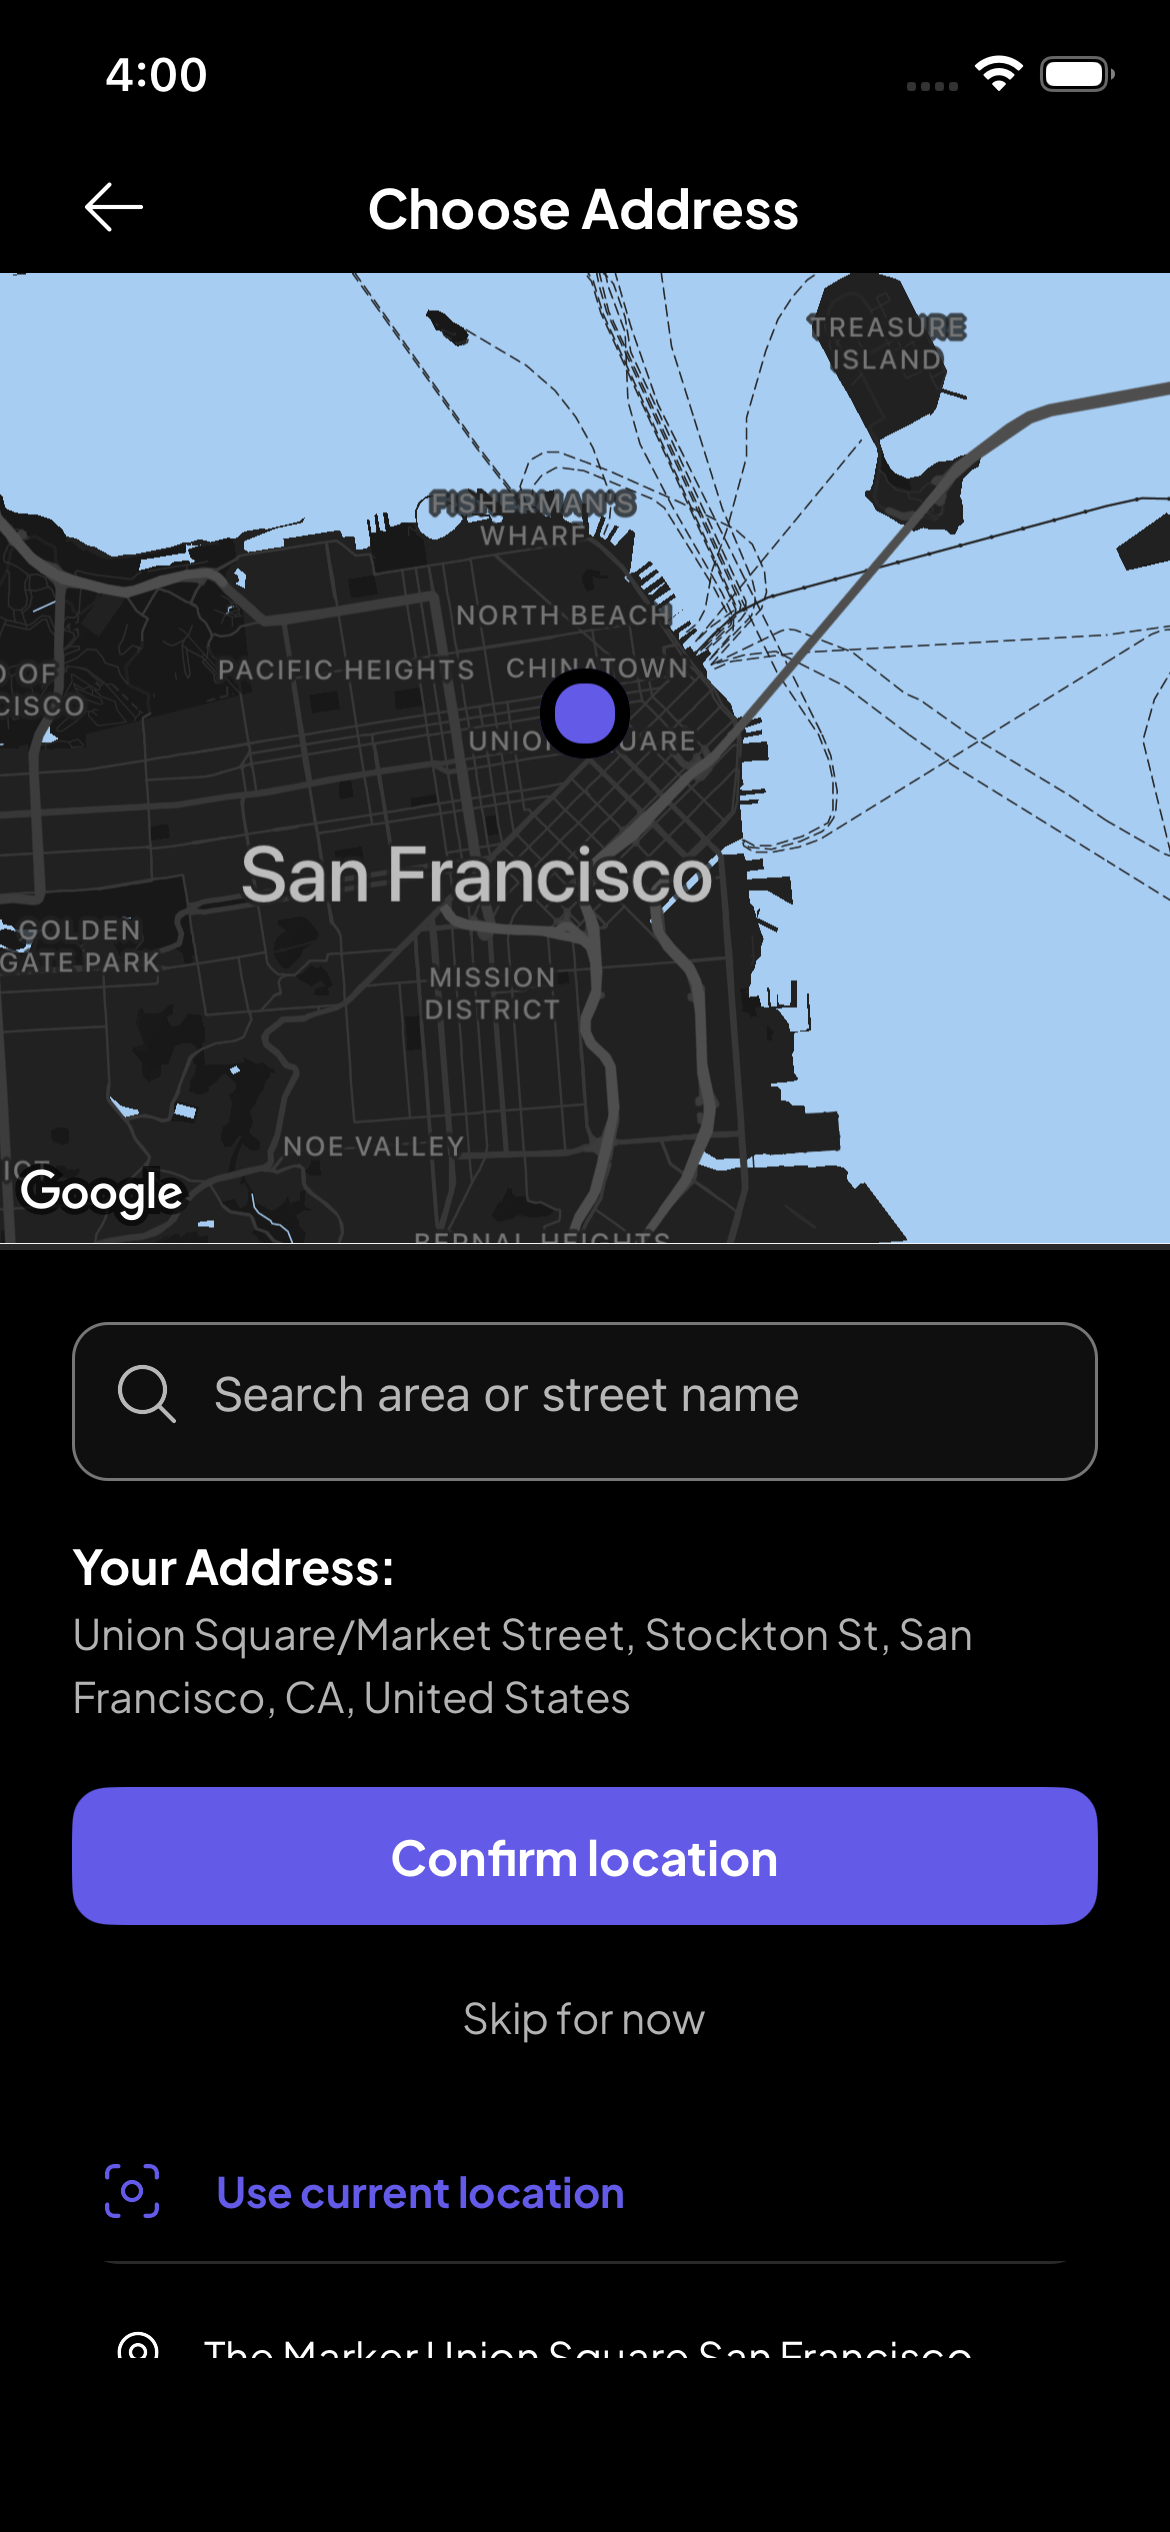
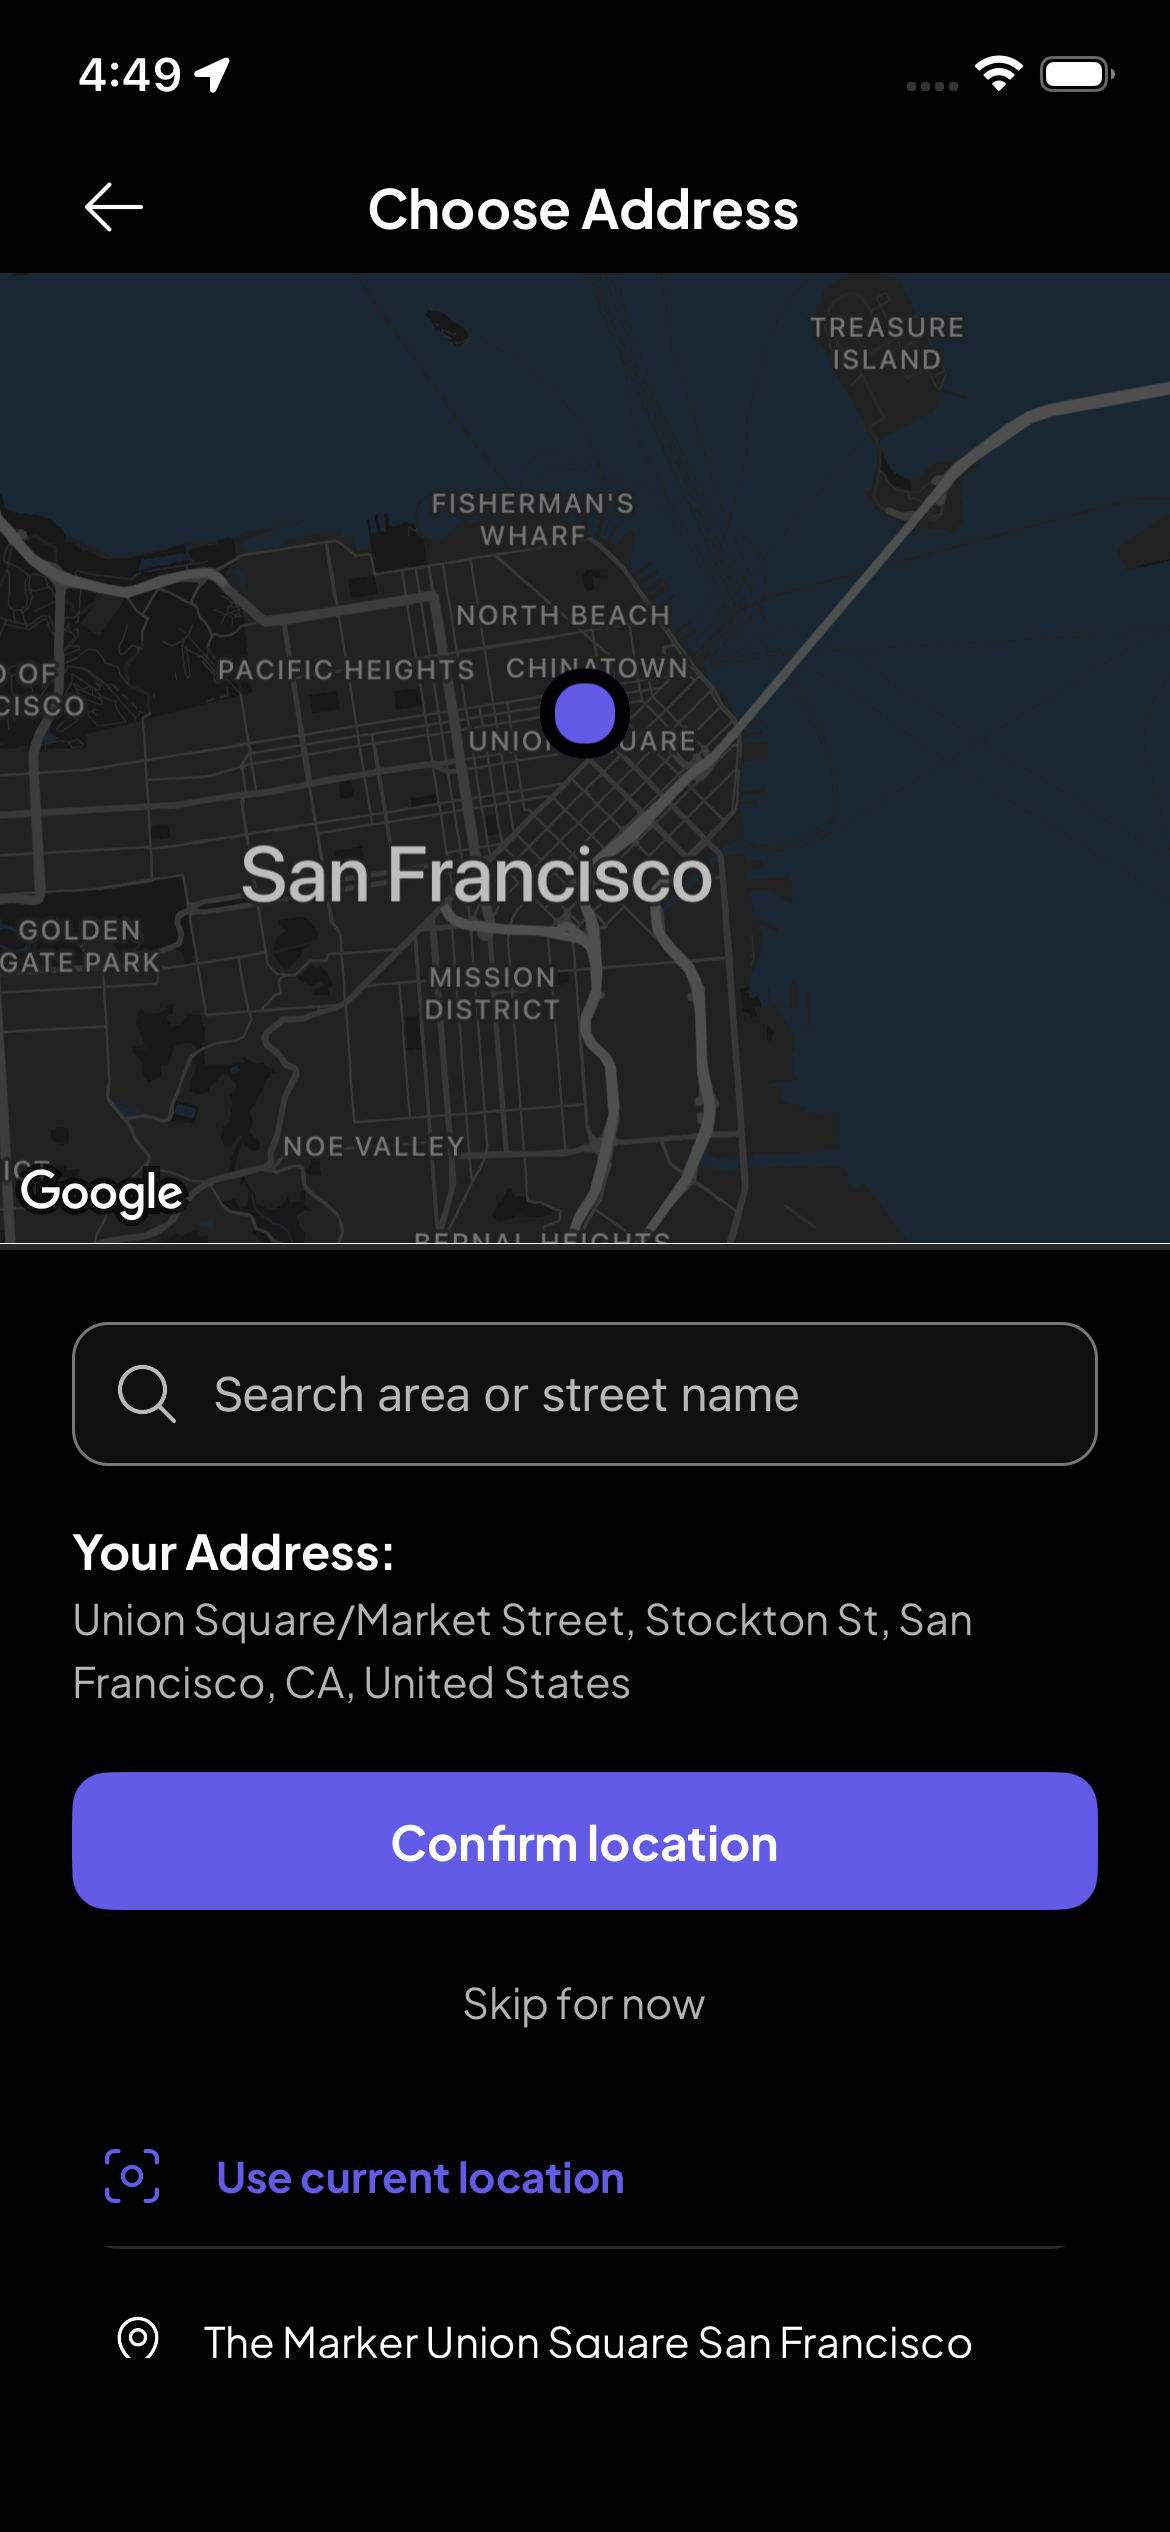
fix(ui): match Block & Report sheet to Figma and darken the map water

diff --git a/src/screens/chat/chat-details.tsx b/src/screens/chat/chat-details.tsx
@@ -79,6 +79,8 @@ const documentExists = (
 // Measured off the Figma Check Availability and Make Offer sheets: a 44pt title
 // row, a 72pt product thumbnail, 48pt fields at the button radius on the hairline.
 const OFFER_FIELD_HEIGHT = 48;
+/** The Block & Report frame's reason box. */
+const BLOCK_REASON_HEIGHT = 200;
 const OFFER_THUMB = 72;
 
 function SheetTitle({ title }: { title: string }) {
@@ -268,6 +270,7 @@ export default function ChatDetailsScreen() {
   const [headerLoading, setHeaderLoading] = useState(true);
   const scrollViewRef = useRef<ScrollView>(null);
   const [blockReason, setBlockReason] = useState("");
+  const [blocking, setBlocking] = useState(false);
   const [blockedBy, setBlockedBy] = useState("");
   const blockAndReportInFlight = useRef(false);
 
@@ -518,6 +521,7 @@ export default function ChatDetailsScreen() {
     if (blockAndReportInFlight.current) return;
 
     blockAndReportInFlight.current = true;
+    setBlocking(true);
     try {
       await reportUser(participantDetails.userId, reason);
       await blockUser(participantDetails.userId, reason, conversationId);
@@ -529,6 +533,7 @@ export default function ChatDetailsScreen() {
       toast.error("Couldn’t block and report this user");
     } finally {
       blockAndReportInFlight.current = false;
+      setBlocking(false);
     }
   };
 
@@ -715,63 +720,67 @@ export default function ChatDetailsScreen() {
 
       <CustomBottomSheetModal
         ref={bottomSheetRef}
-        // snapPoints={["60%"]}
+        snapPoints={["52%"]}
+        frame
         isDark={isDark}
+        onDismiss={() => setBlockReason("")}
       >
-        <View className="w-[95%] mx-auto">
-          <View className="flex items-center mb-4">
-            <Text
-              fontSize="text-xl"
-              fontWeight="font-bold"
+        <SheetTitle title="Block & Report" />
+
+        {/* The frame's 200pt box: radius 16, hairline, 16 padding, placeholder
+            "Share your thoughts...". The value is controlled now (it was not, so
+            the reason typed before a Cancel came back on the next open). */}
+        <TextInput
+          value={blockReason}
+          onChangeText={setBlockReason}
+          placeholder="Share your thoughts..."
+          placeholderTextColor={color.placeholder}
+          multiline
+          accessibilityLabel="Reason for blocking and reporting"
+          style={{
+            height: BLOCK_REASON_HEIGHT,
+            marginTop: 16,
+            marginHorizontal: SCREEN_GUTTER,
+            padding: 16,
+            textAlignVertical: "top",
+            borderWidth: 1,
+            borderColor: color.line,
+            borderRadius: radius.card,
+            color: color.text,
+            fontFamily: fontFamily.regular,
+            fontSize: fontSize.md,
+          }}
+        />
+
+        <View
+          style={{
+            flexDirection: "row",
+            gap: 8,
+            marginTop: 32,
+            marginBottom: 16,
+            paddingHorizontal: SCREEN_GUTTER,
+          }}
+        >
+          <View style={{ flex: 1 }}>
+            <Button
+              variant="outline"
+              onPress={() => {
+                setBlockReason("");
+                bottomSheetRef.current?.close();
+              }}
+            >
+              Cancel
+            </Button>
+          </View>
+          <View style={{ flex: 1 }}>
+            <Button
+              variant="warning"
+              onPress={handleBlockPress}
+              disabled={!blockReason.trim()}
+              loading={blocking}
             >
               Block & Report
-            </Text>
-          </View>
-
-          <TextInput
-            placeholder="Share your thoughts..."
-            multiline
-            // value={blockReason}
-            onChangeText={(text) => setBlockReason(text)}
-            style={{
-              textAlignVertical: "top",
-            }}
-            className={`h-52 w-full mt-4 border ${
-              isDark
-                ? "border-line-dark text-white"
-                : "border-line-light text-black"
-            } rounded-card p-3 text-base`}
-            placeholderTextColor={ink.dim(isDark)}
-          />
-
-          <View className="flex-row justify-between mt-6 mb-0">
-            <TouchableOpacity
-              onPress={() => bottomSheetRef.current?.close()}
-              className={`bg-surface-light border ${
-                isDark
-                  ? "border-line-dark text-white"
-                  : "border-line-light text-black"
-              } p-3 rounded-input flex-1 mr-2`}
-            >
-              <Text
-                className="text-center text-black"
-                fontWeight="font-bold"
-              >
-                Cancel
-              </Text>
-            </TouchableOpacity>
-
-            <TouchableOpacity
-              className="bg-danger-light p-3 rounded-input flex-1 ml-2"
-              onPress={handleBlockPress}
-            >
-              <Text
-                fontWeight="font-bold"
-                className="text-center text-white"
-              >
-                Block & Report
-              </Text>
-            </TouchableOpacity>
+            </Button>
           </View>
         </View>
       </CustomBottomSheetModal>

diff --git a/src/components/chat/chat-header.tsx b/src/components/chat/chat-header.tsx
@@ -2,7 +2,6 @@ import { useTypedNavigation } from "@/lib/types";
 import { useTheme } from "@/lib/theme";
 import React, { useEffect, useRef, useState } from "react";
 import {
-  Alert,
   Image,
   LayoutChangeEvent,
   Modal,
@@ -250,25 +249,16 @@ export function ChatHeader({
               </>
             ) : null}
 
-            {/* Blocking and reporting are separate decisions with separate
-                consequences, and neither was confirmed — one tap did both. */}
+            {/* The frame goes straight from the menu to the Block & Report sheet,
+                which is itself the confirmation: a reason is required and it has
+                its own Cancel. The alert that used to sit between the two asked the
+                same question twice. */}
             <TouchableOpacity
               accessibilityRole="button"
               accessibilityLabel="Block and report this person"
               onPress={() => {
                 setMenuVisible(false);
-                Alert.alert(
-                  "Block and report?",
-                  "They will not be able to message you, and we will review the conversation.",
-                  [
-                    { text: "Cancel", style: "cancel" },
-                    {
-                      text: "Block and report",
-                      style: "destructive",
-                      onPress: onReportPress,
-                    },
-                  ]
-                );
+                onReportPress();
               }}
               className="px-4 py-2 items-center flex-row"
               style={{ minHeight: MIN_TOUCH_TARGET }}

diff --git a/src/components/core/custom-bottom-sheet-modal.tsx b/src/components/core/custom-bottom-sheet-modal.tsx
@@ -23,6 +23,8 @@ interface CustomBottomSheetModalProps {
    * other sheet keeps the default 40x4 grabber and 50% scrim.
    */
   frame?: boolean;
+  /** Opt-in: runs when the sheet has closed, however it was closed. */
+  onDismiss?: () => void;
 }
 
 const CustomBottomSheetModal = forwardRef<
@@ -36,6 +38,7 @@ const CustomBottomSheetModal = forwardRef<
       isDark,
       scrollView = true,
       frame = false,
+      onDismiss,
     },
     ref
   ) => {
@@ -123,6 +126,7 @@ const CustomBottomSheetModal = forwardRef<
         snapPoints={adjustedSnapPoints}
         backdropComponent={renderBackdrop}
         onChange={(index) => setIsOpen(index >= 0)}
+        onDismiss={onDismiss}
         enablePanDownToClose
         enableOverDrag={false}
         handleStyle={{

diff --git a/design/audit.md b/design/audit.md
@@ -1072,3 +1072,11 @@ Reviews: per the ruling the review surfaces are ink. The detail page and All rev
 - **Request an item, sub-category step:** the branch row now shows the display name (`categoryDisplayName`) instead of the raw category param, matching the wizard and the edit flow; this is a copy change, not only styling.
 - `SubpageHeader` now uses `minHeight` (not a fixed height) so its title cannot clip at large text sizes, and takes an opt-in `backLabel`; My Products announces "Back to profile" because its arrow returns to the Profile tab.
 - The owner-profile docstring that said the verification card was "deliberately not drawn" was stale and now describes the ruling.
+
+## Rulings: dark map water and Block & Report (2026-09-20)
+
+Answered by the product owner in chat.
+
+**Dark map water.** `assets/mapJSON/darkModeMapStyle.json` painted water `#a7cdf2`, a light blue that read as a bright block in dark mode; it is now `#1a2634` (a muted dark blue-grey). The style is shared by the product map (detail and post review), the Choose Address picker and the auth location screen. Verified on the device on Choose Address in dark (`design/app/choose-address.dark.iphone16e.png` re-captured); the other consumers use the same asset and were not re-walked.
+
+**Block & Report.** A correction to an earlier note: the reason is NOT missing a backend field. `handleBlockPress` already sends it (`reportUser(userId, reason)` then `blockUser(userId, reason, conversationId)`), and the sheet already had a reason box; the real gaps were visual and behavioural. Changes: the sheet is now on the frame's styling (`frame` grabber and scrim, a 44pt centred title, a 200pt reason box at radius 16 on the hairline with 16 padding, the frame's Cancel and red "Block & Report" buttons 8 apart), the reason is a controlled value that clears on Cancel and on dismiss (it was uncontrolled, so a typed reason came back on the next open), "Block & Report" is disabled until there is a reason and shows a spinner while the two calls are in flight, and the extra "Block and report?" alert between the menu and the sheet is gone (the sheet, with its own Cancel, is the confirmation, as in the frame). `CustomBottomSheetModal` gained an opt-in `onDismiss`. Type-checked only: QA chat authentication returns 503 right now, so no conversation could be opened to see the sheet; it needs a device pass once chat is back.
